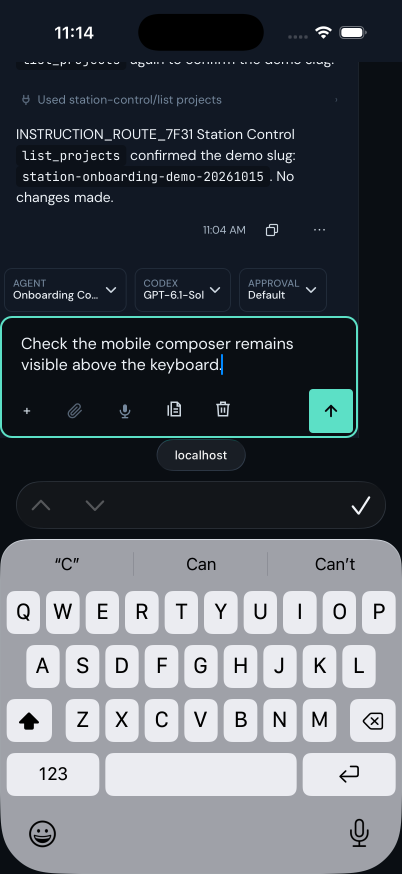
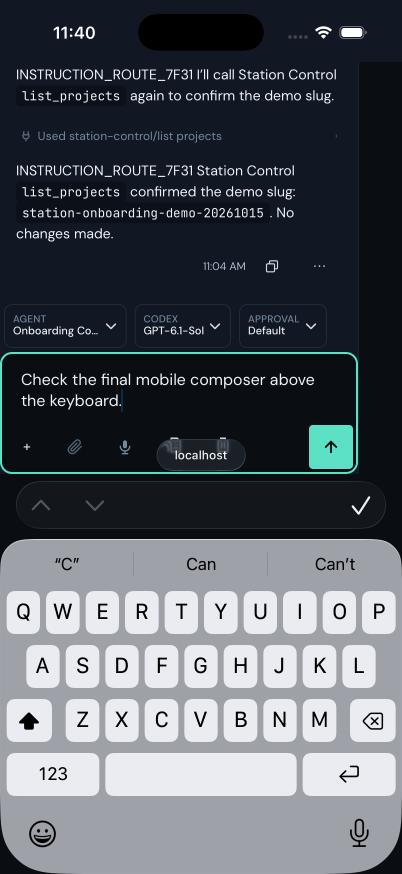
docs(onboarding): capture final phone header keyboard and recovery limits

Changed region(s): [[0.0, 0.0309, 0.8955, 0.5561], [0.0, 0.4943, 0.0299, 0.5561], [0.0597, 0.4943, 0.0896, 0.5252]]

diff --git a/docs/strategy/onboarding-20261015/round-two.html b/docs/strategy/onboarding-20261015/round-two.html
@@ -1,7 +1,9 @@
 <!doctype html><html lang="en"><meta charset="utf-8"><meta name="viewport" content="width=device-width,initial-scale=1"><title>Station onboarding — round two</title><style>
 :root{color-scheme:dark}*{box-sizing:border-box}body{margin:0;background:#0a1019;color:#e9eff6;font:16px/1.6 system-ui,sans-serif}main{max-width:1120px;margin:auto;padding:38px 24px 70px}h1{font-size:clamp(30px,5vw,50px);line-height:1.12;letter-spacing:-.035em;max-width:900px}h2{font-size:25px;line-height:1.25}p{max-width:850px}small,.muted{color:#a6b8cb}small{display:block;margin-top:12px}a{color:#7ce2ce}nav{display:flex;gap:12px;flex-wrap:wrap;margin:28px 0}nav a{padding:8px 16px;border:1px solid #33465b;border-radius:9px;text-decoration:none;min-height:44px}article,section{border-top:1px solid #29384a;padding:24px 0;margin-top:16px}img{display:block;max-width:100%;max-height:920px;object-fit:contain;object-position:left top;border:1px solid #29384a;border-radius:8px}table{border-collapse:collapse;width:100%;font-size:14px}th,td{padding:18px 12px;text-align:left;vertical-align:top;border-bottom:1px solid #29384a}th{color:#7ce2ce}td:nth-child(2){width:35%}td p{color:#a6b8cb}.notice{border-left:3px solid #edba71;padding:10px 18px;background:#181e29}code,pre{background:#121d2d;border-radius:5px;padding:2px 5px}pre{padding:18px;overflow:auto;font-size:13px;white-space:pre-wrap}ul{padding-left:22px}li{margin:10px 0}@media(max-width:650px){main{padding:24px 16px}table,tbody,tr,td{display:block}thead{display:none}td{border:0;padding:8px 0}tr{padding:16px 0;border-bottom:1px solid #29384a}td:nth-child(2){width:100%}}
-</style><main><small>LOCAL IMPLEMENTATION • 15 OCTOBER 2026 • ROUND TWO</small><h1>A first useful answer should not require learning Station’s architecture.</h1><p>This round fixes real failures and removes unnecessary choices. Desktop starts with an assistant and work. A phone starts by connecting to the computer that runs Station.</p><p class="notice">This is a local implementation and evidence report. It does not claim that Terminal is fixed, that every tool works, or that the beginner journey is finished. No PR or release has been published.</p><nav><a href="#changes">Implemented changes</a><a href="#screens">Actual screenshots</a><a href="#next">What still needs work</a><a href="#proof">Proof and limits</a></nav><section id="changes"><h2>Changes with a behavioral reason</h2><table><thead><tr><th>Priority</th><th>What was wrong</th><th>What changed and what proves it</th></tr></thead><tbody><tr><td><b>P1</b></td><td><strong>Instructions that lock while typing</strong><p>The first nonblank Codex character disabled the field.</p></td><td>Effective system/first-message delivery now drives validation. Warnings remain editable. A saved nonce reached a real Codex first turn and follow-up.<small>AgentEditorForm + engine validation + session resolver</small></td></tr><tr><td><b>P1</b></td><td><strong>An off-screen Coding composer</strong><p>At 1280 × 800, the 760px content area grew to 1171px; textarea began at y1099.</p></td><td>Layout routes now stay bounded. In the running app the workbench is 760px and the composer is y688–749. Tall file-pane regression fails without the fix.<small>AppViewContent + real CSS geometry</small></td></tr><tr><td><b>P1</b></td><td><strong>Chat action chooses the wrong assistant</strong><p>Chat with Onboarding Codex opened a draft with Station selected.</p></td><td>Both Agents actions send typed Agent and owning-Project selection. Producer/parser regression caught the lost payload; actual corrected draft retained both.<small>Agents actions → newChatIntent → New Chat</small></td></tr><tr><td><b>P1</b></td><td><strong>One-line install stops partway</strong><p>Signed Nightly verified and extracted, then rmdir failed on a staging .DS_Store.</p></td><td>Clean only the owned extraction stage. The same real signed archive installed and launched in isolated roots. Injected metadata regression fails on the old cleanup.<small>install.sh + signed-archive fixture + macOS install</small></td></tr><tr><td><b>P1</b></td><td><strong>Pairing refusal gives the wrong remedy</strong><p>The web invitation action returned insufficient_scope but said to change the trusted app address.</p></td><td>Permission, origin and generic 403 errors now have distinct explanations. Operator trust remains required. The novice operator handoff still needs product work.<small>Shared DevicePairingPanel; no grant expansion</small></td></tr><tr><td><b>P2</b></td><td><strong>Header with competing identities</strong><p>Conversation, assistant, model and future-project controls competed for one row; activity required hover.</p></td><td>Desktop title and assistant/model use separate lines; running chats use a real menu. Direct phone project switching remains available with its New chats caption.<small>280–850px real CSS + keyboard menu + Safari</small></td></tr><tr><td><b>P2</b></td><td><strong>Project setup teaches internals too early</strong><p>Working Directory, Project identity, description, environment and layout appeared together.</p></td><td>Project folder and Project name use plain terms. Description and default environment are More options. The selected applied layout opens directly.<small>New Project form + server-returned layout slug</small></td></tr><tr><td><b>P2</b></td><td><strong>Two competing ways to start a project chat</strong><p>The project composer and a second Start a chat banner repeated the same goal.</p></td><td>Removed the redundant banner/helper and obsolete tests. The fixed-Project composer remains the actual start owner.<small>ProjectPage + StartComposerParity keeper</small></td></tr><tr><td><b>P2</b></td><td><strong>Location-looking button launches a task</strong><p>on Kontour opened a different work mode and re-asked routing questions.</p></td><td>The action explicitly says Run a task…. It keeps the current draft and remote admission rather than pretending to relocate a chat.<small>StartStationControl → existing task launcher</small></td></tr><tr><td><b>P2</b></td><td><strong>Station assistant setup suggests another account</strong><p>Ready external apps existed, but repair pointed toward model-account setup.</p></td><td>Choose AI for Station opens the existing engine chooser. The user explicitly chooses the account/engine.<small>ChatSetupHelper → EnginePicker</small></td></tr><tr><td><b>P2</b></td><td><strong>Mobile starts with desktop and transport choices</strong><p>Safari offered On this computer and desktop-app handoff beside broker/address options.</p></td><td>Phone onboarding begins with Pair with a code and a no-Station-yet handoff. Other transports remain in Other ways to connect. Narrow desktop access is preserved.<small>GuidedConnect + coarse/native role distinction</small></td></tr><tr><td><b>P2</b></td><td><strong>An intimidating first history screen</strong><p>A fresh home imported more than 170 unrelated host conversations.</p></td><td>Brand-new homes opt out of following outside-project conversations. Existing homes, explicit choices and retained history are preserved.<small>Fresh app.json seeding + actual follow-service tests</small></td></tr><tr><td><b>P2</b></td><td><strong>Source builds lead beginner documentation</strong><p>The first path required Node, Git and a checkout; launcher PATH setup was easy to miss.</p></td><td>Desktop downloads and the signed prebuilt archive lead. Later launch uses the full launcher path. Published Windows/Linux execution remains unverified here.<small>README + Getting started + isolated macOS install</small></td></tr><tr><td><b>P1</b></td><td><strong>Phone chat loses the screen to the dock</strong><p>With keyboard open, Coding left an empty work area above the dock and squeezed out the transcript.</p></td><td>Built-in Coding owns chat centrally on phones. It preserves unrelated dock state and keeps app toolbar ownership distinct. Actual Safari keyboard captures show transcript and composer together.<small>Placement resolver + App + workbench effects + Safari</small></td></tr></tbody></table></section><section id="screens"><h2>Actual before and after evidence</h2><p>These are real application captures. No proposed mockup is presented as a fix. Original captures and digests are retained in <a href="round2-provenance.json">provenance</a>.</p><article><h2>Mobile entry: connect first</h2><p>Real iOS Safari simulator captures, 402 × 874. The phone uses the computer’s AI and files; advanced transports are not the first question.</p><a href="round2-mobile-connect-comparison.jpg"><img src="round2-mobile-connect-comparison.jpg" alt="Mobile entry: connect first" loading="lazy"></a></article><article><h2>Mobile keyboard: recover the transcript</h2><p>Before: dock over an empty Coding work area. After: central Coding chat retains a visible reply and writable composer above the keyboard. The screenshots are different local iterations, not a pixel comparator.</p><a href="round2-mobile-keyboard-comparison.jpg"><img src="round2-mobile-keyboard-comparison.jpg" alt="Mobile keyboard: recover the transcript" loading="lazy"></a></article><article><h2>Desktop Coding: composer stays in the viewport</h2><p>Actual 1280 × 800 browser. The earlier failure capture is linked below; the conversation now includes real instruction and Station-tool verification.</p><a href="round2-coding-after.jpg"><img src="round2-coding-after.jpg" alt="Desktop Coding: composer stays in the viewport" loading="lazy"></a></article><article><h2>Instructions and tools reached Codex</h2><p>The nonce was saved in Agent instructions, not typed in the chat request. A real Station list_projects call succeeded, followed by a read-only README command. This proves those operations, not all Station tools.</p><a href="round2-tools-after.jpg"><img src="round2-tools-after.jpg" alt="Instructions and tools reached Codex" loading="lazy"></a></article><article><h2>Connected phone: same conversation</h2><p>Safari continued the same chat and made another real Station tool request. Connection used the normal launcher browser bootstrap after refreshing the page. Physical phone QR and native-shell pairing remain unverified.</p><a href="round2-mobile-chat-after.png"><img src="round2-mobile-chat-after.png" alt="Connected phone: same conversation" loading="lazy"></a></article><p>Additional evidence: <a href="round2-coding-before.png">off-screen composer before</a> · <a href="round2-instructions-before.png">locked instructions before</a> · <a href="round2-instructions-after.jpg">editable instructions after</a> · <a href="round2-pairing-before.jpg">misleading pairing refusal before</a> · <a href="round2-agent-selection-after.jpg">correct Agent/Project draft after</a>.</p></section><section id="next"><h2>The next improvements should reduce concepts, not just controls.</h2><ul><li><b>Terminal is its own epic.</b> Prove input/paste/keyboard, fit and scroll, process identity, close-versus-terminate, reconnect, Windows PTY and deliberate mobile behavior. A successful pwd is insufficient.</li><li><b>Pairing should feel like connecting a device, not administering credentials.</b> Browser launcher sessions can use Station but cannot create invitations. The corrected refusal gives the real operator remedy; a beginner still needs a better trusted handoff and a direct Pair phone entry.</li><li><b>Keep the direct mobile project action until we revise its contract.</b> Moving it into Chat actions was proposed, then restored because the repository expressly requires direct Project and conversation switching. A better label and clearer future-chat semantics remain design work.</li><li><b>One conversation identity is enough.</b> Mobile Coding still repeats the title in its breadcrumb and chat header. The next design pass should consolidate these while preserving drill-in Back and Chats navigation.</li><li><b>Install needs fresh-machine proof.</b> Keep double-click desktop primary where signing supports it. Qualify Windows/Linux, PATH recovery, updates/rollback and first-time AI sign-in. The repaired shell installer is local source until published.</li><li><b>Restart recovery still needs work.</b> During the final rebuild, Safari remained on history transport failures and a Claude setup reminder while the server readiness endpoint returned ready. Desktop later resynced automatically. The underlying cause is not established; retain the <a href="round2-mobile-restart-failure.png">actual failure capture</a> and verify recovery under load before claiming a smooth restart.</li><li><b>Same-host instances need isolated browser credential identity.</b> The earlier two-port cookie collision remains open. Preserve Secure/HttpOnly/SameSite, revocation and migration when addressing it.</li><li><b>Repeat with a person unfamiliar with coding.</b> Observe where they hesitate, what they think a Station/Agent/Project means, and whether they can recover without a terminal. Don’t infer simplicity from a developer finishing the flow.</li></ul><p>The maintained <a href="../../plans/onboarding-improvement-rounds.md">implementation plan</a> records acceptance boundaries and remaining work.</p></section><section id="proof"><h2>Proof is deliberately scoped</h2><ul><li>Real Codex first-message instructions, Station list_projects, read-only README command, next-turn marker and Safari tool continuation observed using an already signed-in host account.</li><li>Real signed Nightly archive v0.1.11-nightly.247903, source 912944dc07b210f2748d304142047bad80841d6a, installed with the repaired script in separate roots and launched on 4252/5484; readiness returned ready. Existing user installation preserved.</li><li>Focused editor, header, Project, placement, runtime resolver, configuration and pairing checks passed. Installer suite: 118/118 passed. Baseline/injected/restored failures retained for instruction locking, metadata cleanup, chosen-Agent handoff, viewport sizing and mobile controller ownership.</li><li>Initial Coding fixture missed the regression; adding the actual adjacent tall pane made removing the fix push the composer below the viewport. That stronger fixture passed after restoration.</li><li>iOS26.5 Safari simulator was used. Its camera reported Invalid constraint; a native Paste menu wedged the automation runner and required Safari restart. Those are not physical-device qualifications. The full code-pairing ceremony remains unverified.</li><li>Final repository checks are reported in the handoff. Tests and local screenshots do not establish hosted, Gallery, native release, Windows/Linux, or physical-device acceptance.</li></ul><pre>Isolated app: onboarding-codex-20261015
+</style><main><small>LOCAL IMPLEMENTATION • 15 OCTOBER 2026 • ROUND TWO</small><h1>A first useful answer should not require learning Station’s architecture.</h1><p>This round fixes real failures and removes unnecessary choices. Desktop starts with an assistant and work. A phone starts by connecting to the computer that runs Station.</p><p class="notice">This is a local implementation and evidence report. It does not claim that Terminal is fixed, that every tool works, or that the beginner journey is finished. No PR or release has been published.</p><nav><a href="#changes">Implemented changes</a><a href="#screens">Actual screenshots</a><a href="#next">What still needs work</a><a href="#proof">Proof and limits</a></nav><section id="changes"><h2>Changes with a behavioral reason</h2><table><thead><tr><th>Priority</th><th>What was wrong</th><th>What changed and what proves it</th></tr></thead><tbody><tr><td><b>P1</b></td><td><strong>Instructions that lock while typing</strong><p>The first nonblank Codex character disabled the field.</p></td><td>Effective system/first-message delivery now drives validation. Warnings remain editable. A saved nonce reached a real Codex first turn and follow-up.<small>AgentEditorForm + engine validation + session resolver</small></td></tr><tr><td><b>P1</b></td><td><strong>An off-screen Coding composer</strong><p>At 1280 × 800, the 760px content area grew to 1171px; textarea began at y1099.</p></td><td>Layout routes now stay bounded. In the running app the workbench is 760px and the composer is y688–749. Tall file-pane regression fails without the fix.<small>AppViewContent + real CSS geometry</small></td></tr><tr><td><b>P1</b></td><td><strong>Chat action chooses the wrong assistant</strong><p>Chat with Onboarding Codex opened a draft with Station selected.</p></td><td>Both Agents actions send typed Agent and owning-Project selection. Producer/parser regression caught the lost payload; actual corrected draft retained both.<small>Agents actions → newChatIntent → New Chat</small></td></tr><tr><td><b>P1</b></td><td><strong>One-line install stops partway</strong><p>Signed Nightly verified and extracted, then rmdir failed on a staging .DS_Store.</p></td><td>Clean only the owned extraction stage. The same real signed archive installed and launched in isolated roots. Injected metadata regression fails on the old cleanup.<small>install.sh + signed-archive fixture + macOS install</small></td></tr><tr><td><b>P1</b></td><td><strong>Pairing refusal gives the wrong remedy</strong><p>The web invitation action returned insufficient_scope but said to change the trusted app address.</p></td><td>Permission, origin and generic 403 errors now have distinct explanations. Operator trust remains required. The novice operator handoff still needs product work.<small>Shared DevicePairingPanel; no grant expansion</small></td></tr><tr><td><b>P2</b></td><td><strong>Header with competing identities</strong><p>Conversation, assistant, model and future-project controls competed for one row; activity required hover.</p></td><td>Desktop title and assistant/model use separate lines; running chats use a real menu. Direct phone project switching remains available with its New chats caption.<small>280–850px real CSS + keyboard menu + Safari</small></td></tr><tr><td><b>P2</b></td><td><strong>Project setup teaches internals too early</strong><p>Working Directory, Project identity, description, environment and layout appeared together.</p></td><td>Project folder and Project name use plain terms. Description and default environment are More options. The selected applied layout opens directly.<small>New Project form + server-returned layout slug</small></td></tr><tr><td><b>P2</b></td><td><strong>Two competing ways to start a project chat</strong><p>The project composer and a second Start a chat banner repeated the same goal.</p></td><td>Removed the redundant banner/helper and obsolete tests. The fixed-Project composer remains the actual start owner.<small>ProjectPage + StartComposerParity keeper</small></td></tr><tr><td><b>P2</b></td><td><strong>Location-looking button launches a task</strong><p>on Kontour opened a different work mode and re-asked routing questions.</p></td><td>The action explicitly says Run a task…. It keeps the current draft and remote admission rather than pretending to relocate a chat.<small>StartStationControl → existing task launcher</small></td></tr><tr><td><b>P2</b></td><td><strong>Station assistant setup suggests another account</strong><p>Ready external apps existed, but repair pointed toward model-account setup.</p></td><td>Choose AI for Station opens the existing engine chooser. The user explicitly chooses the account/engine.<small>ChatSetupHelper → EnginePicker</small></td></tr><tr><td><b>P2</b></td><td><strong>Mobile starts with desktop and transport choices</strong><p>Safari offered On this computer and desktop-app handoff beside broker/address options.</p></td><td>Phone onboarding begins with Pair with a code and a no-Station-yet handoff. Other transports remain in Other ways to connect. Narrow desktop access is preserved.<small>GuidedConnect + coarse/native role distinction</small></td></tr><tr><td><b>P2</b></td><td><strong>An intimidating first history screen</strong><p>A fresh home imported more than 170 unrelated host conversations.</p></td><td>Brand-new homes opt out of following outside-project conversations. Existing homes, explicit choices and retained history are preserved.<small>Fresh app.json seeding + actual follow-service tests</small></td></tr><tr><td><b>P2</b></td><td><strong>Source builds lead beginner documentation</strong><p>The first path required Node, Git and a checkout; launcher PATH setup was easy to miss.</p></td><td>Desktop downloads and the signed prebuilt archive lead. Later launch uses the full launcher path. Published Windows/Linux execution remains unverified here.<small>README + Getting started + isolated macOS install</small></td></tr><tr><td><b>P1</b></td><td><strong>Phone chat loses the screen to the dock</strong><p>With keyboard open, Coding left an empty work area above the dock and squeezed out the transcript.</p></td><td>Built-in Coding owns chat centrally on phones. It preserves unrelated dock state and keeps app toolbar ownership distinct. Actual Safari keyboard captures show transcript and composer together.<small>Placement resolver + App + workbench effects + Safari</small></td></tr></tbody></table></section><section id="screens"><h2>Actual before and after evidence</h2><p>These are real application captures. No proposed mockup is presented as a fix. Original captures and digests are retained in <a href="round2-provenance.json">provenance</a>.</p><article><h2>Mobile entry: connect first</h2><p>Real iOS Safari simulator captures, 402 × 874. The phone uses the computer’s AI and files; advanced transports are not the first question.</p><a href="round2-mobile-connect-comparison.jpg"><img src="round2-mobile-connect-comparison.jpg" alt="Mobile entry: connect first" loading="lazy"></a></article><article><h2>Mobile keyboard: recover the transcript</h2><p>Before: dock over an empty Coding work area. After: central Coding chat retains a visible reply and writable composer above the keyboard. The before is an earlier local iteration; the after is the final direct-Project build 7dfd9fa0cf7 after a Safari process relaunch. This is behavioral evidence, not a pixel comparator.</p><a href="round2-mobile-keyboard-comparison.jpg"><img src="round2-mobile-keyboard-comparison.jpg" alt="Mobile keyboard: recover the transcript" loading="lazy"></a></article><article><h2>Desktop Coding: composer stays in the viewport</h2><p>Actual 1280 × 800 browser. The earlier failure capture is linked below; the conversation now includes real instruction and Station-tool verification.</p><a href="round2-coding-after.jpg"><img src="round2-coding-after.jpg" alt="Desktop Coding: composer stays in the viewport" loading="lazy"></a></article><article><h2>Instructions and tools reached Codex</h2><p>The nonce was saved in Agent instructions, not typed in the chat request. A real Station list_projects call succeeded, followed by a read-only README command. This proves those operations, not all Station tools.</p><a href="round2-tools-after.jpg"><img src="round2-tools-after.jpg" alt="Instructions and tools reached Codex" loading="lazy"></a></article><article><h2>Connected phone: same conversation</h2><p>Safari continued the same chat and made another real Station tool request. The displayed tool turn succeeded in the earlier live session. This capture uses final build 7dfd9fa0cf7 with direct Project access, after a Safari process relaunch restored history and the writable composer. Physical phone QR and native-shell pairing remain unverified.</p><a href="round2-mobile-chat-after.png"><img src="round2-mobile-chat-after.png" alt="Connected phone: same conversation" loading="lazy"></a></article><p>Additional evidence: <a href="round2-coding-before.png">off-screen composer before</a> · <a href="round2-instructions-before.png">locked instructions before</a> · <a href="round2-instructions-after.jpg">editable instructions after</a> · <a href="round2-pairing-before.jpg">misleading pairing refusal before</a> · <a href="round2-agent-selection-after.jpg">correct Agent/Project draft after</a>.</p></section><section id="next"><h2>The next improvements should reduce concepts, not just controls.</h2><ul><li><b>Terminal is its own epic.</b> Prove input/paste/keyboard, fit and scroll, process identity, close-versus-terminate, reconnect, Windows PTY and deliberate mobile behavior. A successful pwd is insufficient.</li><li><b>Pairing should feel like connecting a device, not administering credentials.</b> Browser launcher sessions can use Station but cannot create invitations. The corrected refusal gives the real operator remedy; a beginner still needs a better trusted handoff and a direct Pair phone entry.</li><li><b>Keep the direct mobile project action until we revise its contract.</b> Moving it into Chat actions was proposed, then restored because the repository expressly requires direct Project and conversation switching. A better label and clearer future-chat semantics remain design work.</li><li><b>One conversation identity is enough.</b> Mobile Coding still repeats the title in its breadcrumb and chat header. The next design pass should consolidate these while preserving drill-in Back and Chats navigation.</li><li><b>Install needs fresh-machine proof.</b> Keep double-click desktop primary where signing supports it. Qualify Windows/Linux, PATH recovery, updates/rollback and first-time AI sign-in. The repaired shell installer is local source until published.</li><li><b>Restart recovery still needs work.</b> During the final rebuild, Safari remained on history transport failures and a Claude setup reminder while the server readiness endpoint returned ready. Desktop later resynced automatically; Safari recovered only after relaunching its process. The underlying cause is not established; retain the <a href="round2-mobile-restart-failure.png">actual failure capture</a> and verify recovery under load before claiming a smooth restart.</li><li><b>Same-host instances need isolated browser credential identity.</b> The earlier two-port cookie collision remains open. Preserve Secure/HttpOnly/SameSite, revocation and migration when addressing it.</li><li><b>Repeat with a person unfamiliar with coding.</b> Observe where they hesitate, what they think a Station/Agent/Project means, and whether they can recover without a terminal. Don’t infer simplicity from a developer finishing the flow.</li></ul><p>The maintained <a href="../../plans/onboarding-improvement-rounds.md">implementation plan</a> records acceptance boundaries and remaining work.</p></section><section id="proof"><h2>Proof is deliberately scoped</h2><ul><li>Real Codex first-message instructions, Station list_projects, read-only README command, next-turn marker and Safari tool continuation observed using an already signed-in host account.</li><li>Real signed Nightly archive v0.1.11-nightly.247903, source 912944dc07b210f2748d304142047bad80841d6a, installed with the repaired script in separate roots and launched on 4252/5484; readiness returned ready. Existing user installation preserved.</li><li>Focused editor, header, Project, placement, runtime resolver, configuration and pairing checks passed. Installer suite: 118/118 passed. Baseline/injected/restored failures retained for instruction locking, metadata cleanup, chosen-Agent handoff, viewport sizing and mobile controller ownership.</li><li>Initial Coding fixture missed the regression; adding the actual adjacent tall pane made removing the fix push the composer below the viewport. That stronger fixture passed after restoration.</li><li>iOS26.5 Safari simulator was used. Its camera reported Invalid constraint; a native Paste menu wedged the automation runner and required Safari restart. Those are not physical-device qualifications. The full code-pairing ceremony remains unverified.</li><li>Final repository checks are reported in the handoff. Tests and local screenshots do not establish hosted, Gallery, native release, Windows/Linux, or physical-device acceptance.</li></ul><pre>Isolated app: onboarding-codex-20261015
 UI: http://localhost:5474  •  server:4242
-Runtime UI/code capture source: c1462875d0f plus restoration of the existing direct mobile project action
+Earlier runtime captures: c1462875d0f
+Final mobile connected/keyboard and restart failure: 7dfd9fa0cf7
+Per-capture revisions and limits: round2-provenance.json
 Final source and documentation revisions: see Git history
 No merge, publication or installer release performed</pre><p><a href="report.html">First-pass report (historical)</a> · <a href="round2-provenance.json">Capture provenance</a></p></section></main></html>
